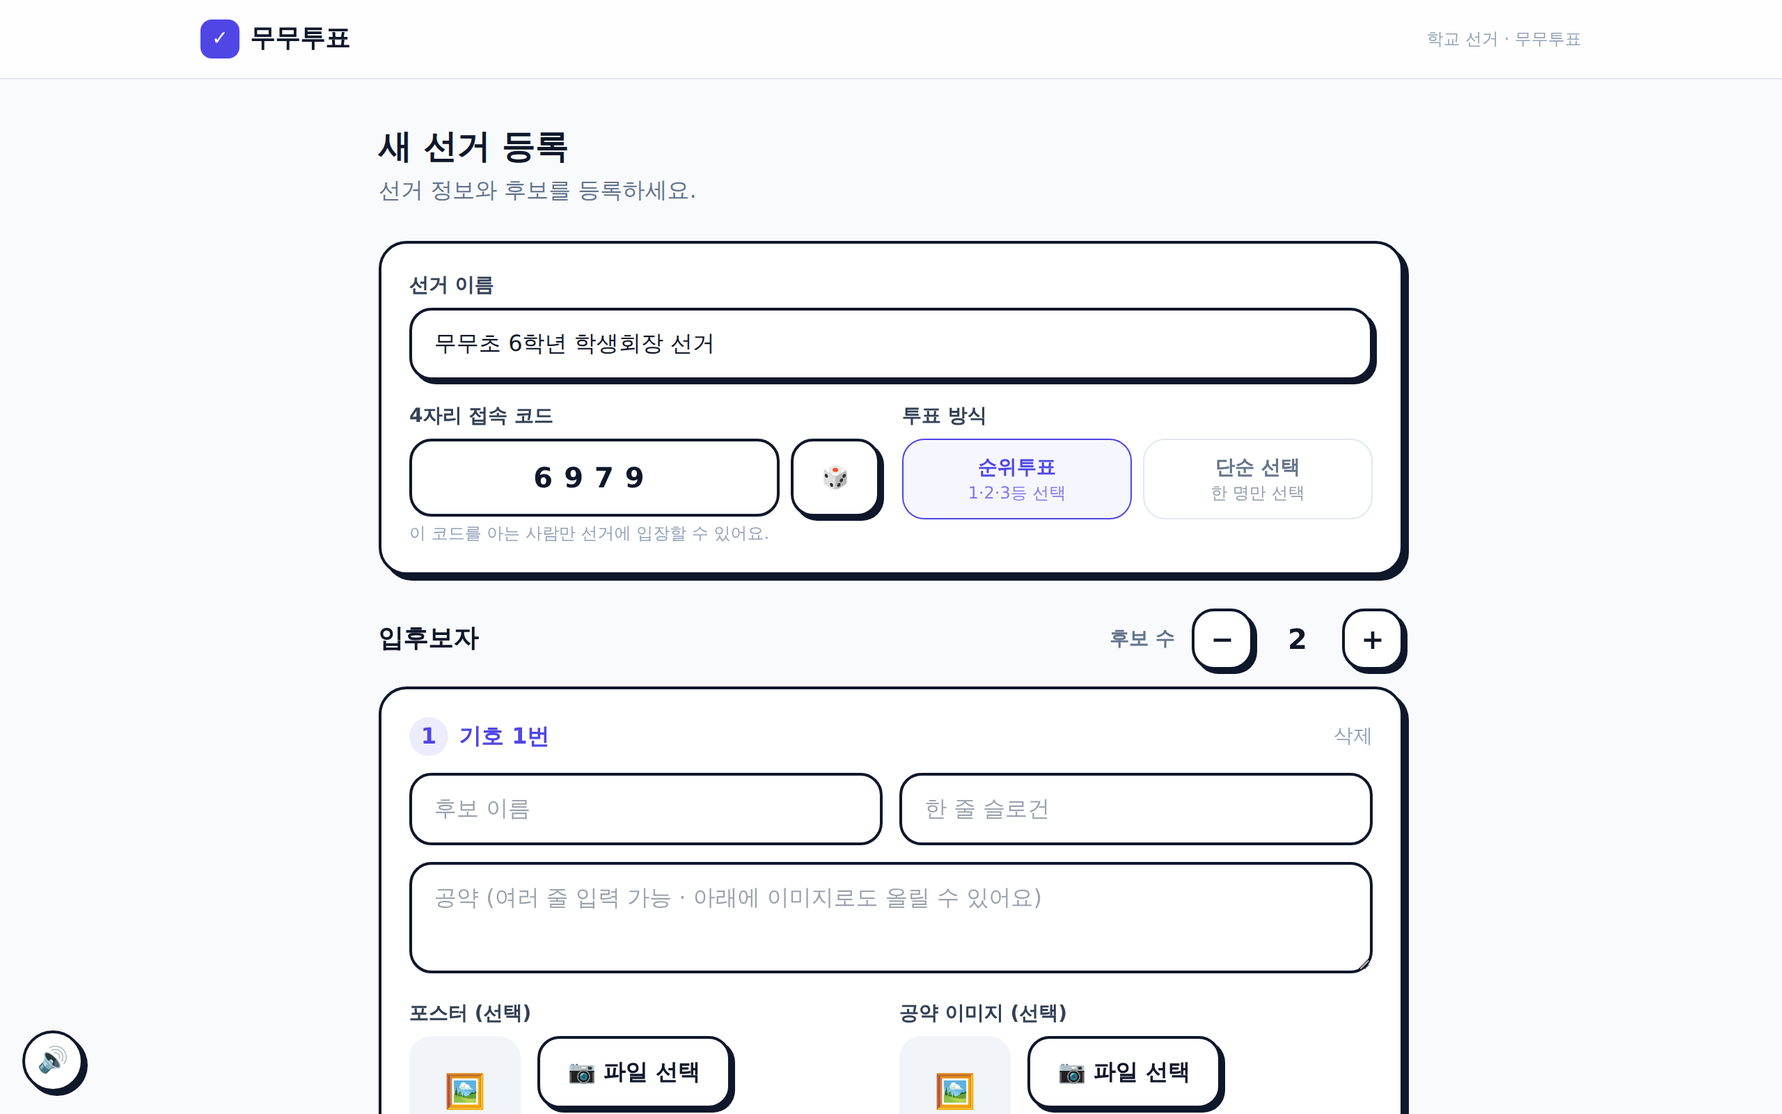
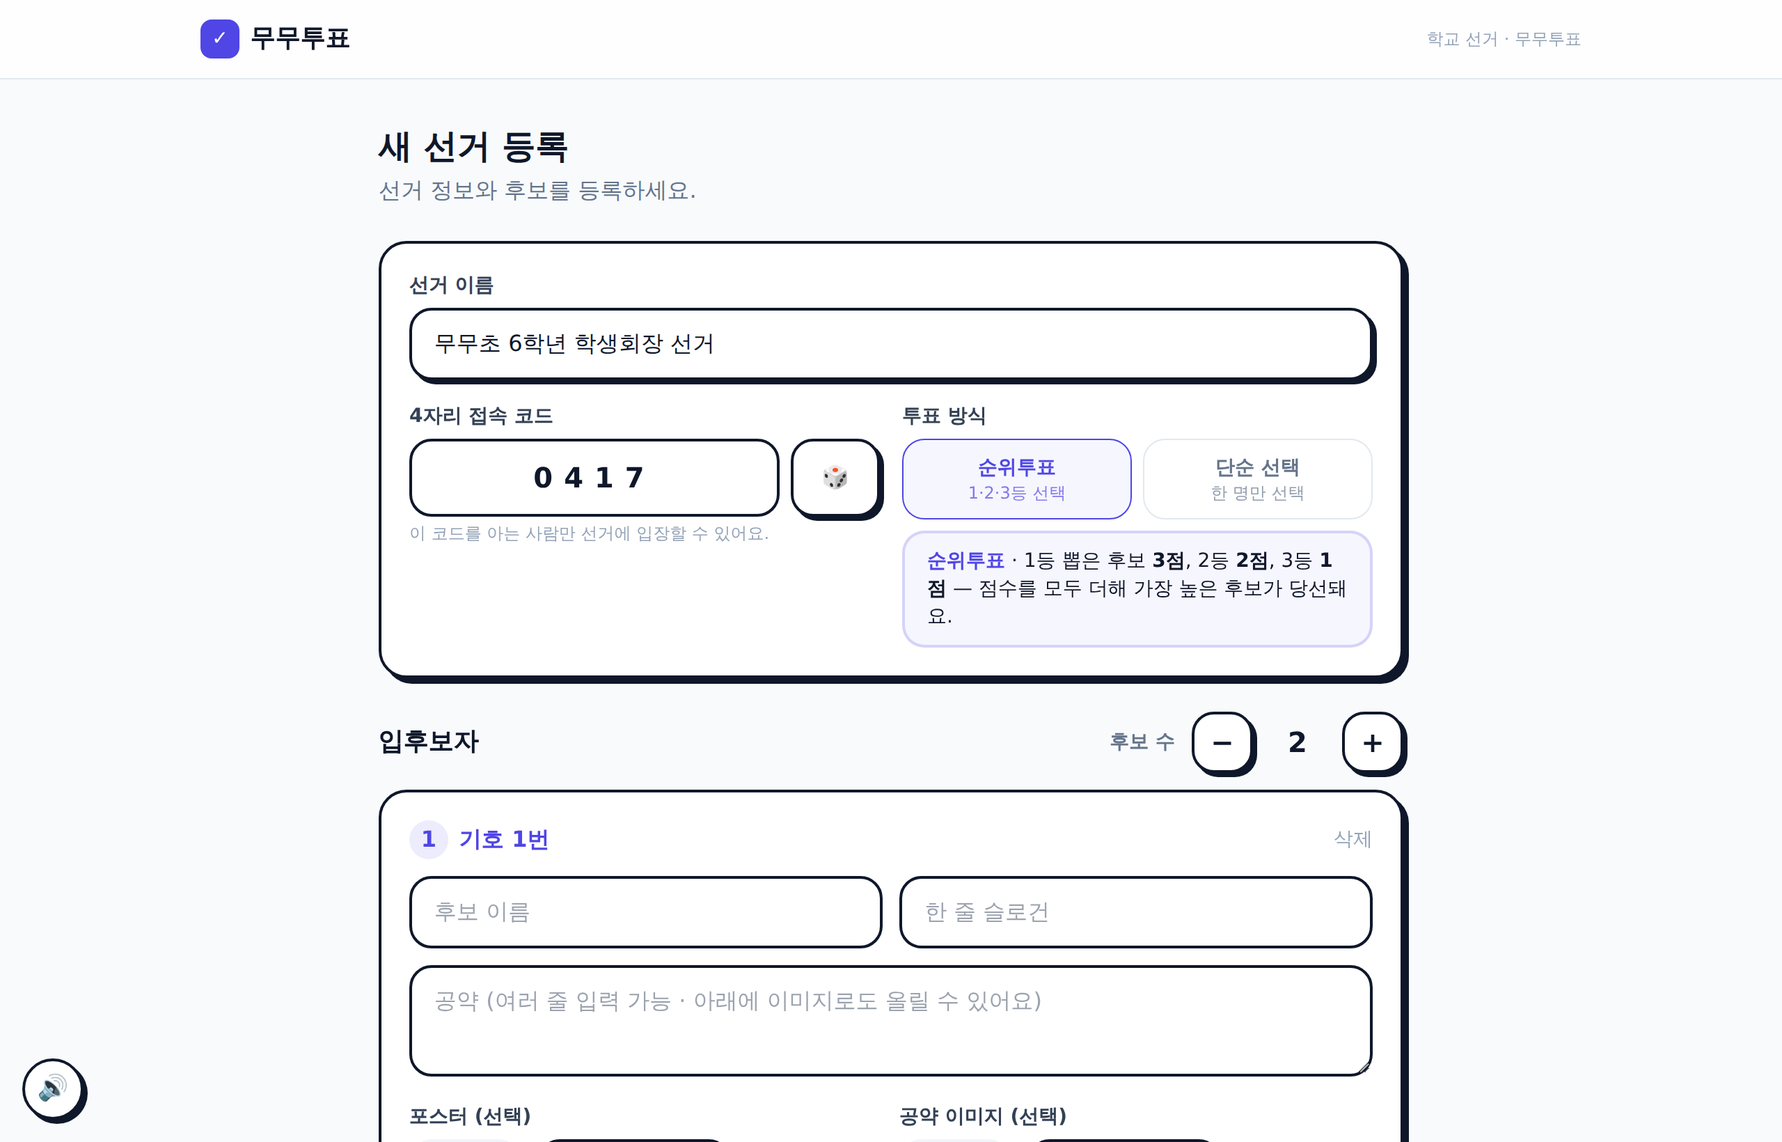
투표 방식 설명 추가 + 소개글·스크린샷 최종 정리 (#20)
* 투표 방식 설명 추가 (순위투표 점수 계산 안내)

학생이 1·2·3등을 고를 때 왜 그렇게 하는지, 어떻게 집계되는지 앱이 직접 설명.

- VoteModeGuide 컴포넌트 신설 (full: 카드형 상세 / compact: 한 줄 배너)
  순위투표 = 1등 3점·2등 2점·3등 1점, 예시와 "모두 더해 최고점이 당선" 설명
  단순 선택 = 한 명만, 최다 득표 당선
- 후보 관찰(Candidates)·개별 투표 관찰 화면에 상세 카드
- 실제 투표 화면(Voting·SelfVote)에 한 줄 배너
- 새 선거 등록에서 방식 선택 시 즉시 설명 표시

Claude-Session: https://claude.ai/code/session_01X3D4HdTXSVNGG6kUNMdW9s

* 소개글·스크린샷 최종 정리 (promo/)

- 스크린샷 11장으로 교체(2x): 스플래시·랜딩·선거등록·후보목록과방식안내·
  후보상세·개별투표·학번확인·순위투표·결과발표대기·카운트다운·결과공개
- 소개글: 투표 방식 설명, 3·2·1 발표 연출, 후보 수 스테퍼 등 최신 기능 반영
- 짧은버전: 스크린샷별 캡션 표 추가

Claude-Session: https://claude.ai/code/session_01X3D4HdTXSVNGG6kUNMdW9s

---------

Changed region(s): [[0.1875, 0.0938, 0.8125, 1.0], [0.1562, 0.0312, 0.1875, 0.0625], [0.0, 0.9375, 0.0312, 0.9688]]

diff --git a/src/components/VoteModeGuide.jsx b/src/components/VoteModeGuide.jsx
@@ -1,0 +1,79 @@
+// 투표 방식 안내 — 순위투표/단순 선택이 어떻게 계산되는지 학생·선생님에게 설명
+// variant: 'full'(카드형 상세) | 'compact'(한 줄 요약 배너)
+export default function VoteModeGuide({ voteMode, variant = 'full' }) {
+  const ranked = voteMode === 'ranked'
+
+  if (variant === 'compact') {
+    return (
+      <div className="rounded-xl bg-primary/5 border-2 border-primary/20 px-4 py-2.5 text-sm text-ink">
+        {ranked ? (
+          <>
+            <b className="text-primary">순위투표</b> · 1등 뽑은 후보 <b>3점</b>, 2등{' '}
+            <b>2점</b>, 3등 <b>1점</b> — 점수를 모두 더해 가장 높은 후보가 당선돼요.
+          </>
+        ) : (
+          <>
+            <b className="text-primary">단순 선택</b> · 후보 <b>한 명</b>만 골라요. 표를 가장 많이
+            받은 후보가 당선돼요.
+          </>
+        )}
+      </div>
+    )
+  }
+
+  return (
+    <div className="card p-5">
+      <div className="flex items-center gap-2 mb-2">
+        <span className="text-xl">🧮</span>
+        <h3 className="font-black text-lg">
+          {ranked ? '순위투표는 이렇게 계산해요' : '단순 선택은 이렇게 계산해요'}
+        </h3>
+      </div>
+
+      {ranked ? (
+        <>
+          <p className="text-slate-600 text-sm">
+            좋아하는 후보를 <b>1등 · 2등 · 3등</b> 순서대로 골라요. 등수마다 점수가 다릅니다.
+          </p>
+          <div className="grid grid-cols-3 gap-2 mt-4">
+            {[
+              ['1등', 3, 'bg-accent text-white'],
+              ['2등', 2, 'bg-primary text-white'],
+              ['3등', 1, 'bg-slate-200 text-ink'],
+            ].map(([label, pt, cls]) => (
+              <div key={label} className="rounded-xl border-2 border-ink p-3 text-center">
+                <span
+                  className={`inline-block rounded-full px-3 py-1 text-xs font-black ${cls}`}
+                >
+                  {label}
+                </span>
+                <p className="text-2xl font-black mt-2">{pt}점</p>
+              </div>
+            ))}
+          </div>
+          <div className="mt-4 rounded-xl bg-slate-50 border border-slate-200 p-3">
+            <p className="text-sm text-slate-600">
+              <b>예시</b> — 한 명이 1등에 기호1, 2등에 기호2, 3등에 기호3을 골랐다면
+              <br />
+              기호1은 <b className="text-accent">3점</b>, 기호2는{' '}
+              <b className="text-primary">2점</b>, 기호3은 <b>1점</b>을 받아요.
+            </p>
+          </div>
+          <p className="text-sm text-slate-600 mt-3">
+            반 학생 모두의 점수를 <b>전부 더해서</b>, 합계가 가장 높은 후보가 당선됩니다. 그래서
+            1등을 적게 받아도 2·3등을 골고루 받으면 순위가 올라갈 수 있어요.
+          </p>
+        </>
+      ) : (
+        <>
+          <p className="text-slate-600 text-sm">
+            후보 <b>한 명</b>만 고르는 방식이에요. 고른 후보가 <b>1표</b>를 받습니다.
+          </p>
+          <p className="text-sm text-slate-600 mt-3">
+            표를 가장 많이 받은 후보가 당선됩니다.
+          </p>
+        </>
+      )}
+    </div>
+  )
+}

diff --git a/src/pages/SelfVote.jsx b/src/pages/SelfVote.jsx
@@ -3,6 +3,7 @@ import { useParams } from 'react-router-dom'
 import { getElection, getClass, submitSelfBallot, subscribeVotedIds } from '../lib/elections'
 import Footer from '../components/Footer'
 import CandidateDetailModal from '../components/CandidateDetailModal'
+import VoteModeGuide from '../components/VoteModeGuide'
 import { playComplete, playError } from '../lib/sound'
 
 // 개별 투표 — 학생이 자기 태블릿에서 비밀 링크로 접속해 각자 투표
@@ -199,9 +200,13 @@ export default function SelfVote() {
         <div className="flex-1 max-w-4xl w-full mx-auto px-4 py-6">
           <p className="text-slate-400 font-semibold text-center">{voter.name}님</p>
           <h1 className="text-2xl font-black text-center mt-1">후보를 살펴보세요</h1>
-          <p className="text-slate-500 text-center mt-1 mb-5">
+          <p className="text-slate-500 text-center mt-1 mb-4">
             카드를 눌러 공약과 포스터를 확인한 뒤, 아래 버튼으로 투표를 시작하세요.
           </p>
+          {/* 투표 방식 설명 */}
+          <div className="mb-5">
+            <VoteModeGuide voteMode={election.voteMode} />
+          </div>
           <CandidateGrid candidates={election.candidates} onPick={(cid) => setDetail(election.candidates.find((c) => c.id === cid))} />
           <div className="sticky bottom-4 mt-8 flex flex-col items-center gap-2">
             <button className="btn-accent text-lg px-10 py-4 shadow-lg" onClick={() => setPhase('vote')}>
@@ -305,9 +310,12 @@ function VoteBox({ election, onSubmit, onCancel }) {
           <h1 className="text-2xl font-black mb-1 text-center">
             <span className="text-primary">{rankLabel[currentRank]}</span> 후보를 선택하세요
           </h1>
-          <p className="text-slate-500 mb-5 text-center">
+          <p className="text-slate-500 mb-3 text-center">
             이미 고른 후보는 제외됩니다. {chosenIds.length > 0 && `(${chosenIds.length}/3 선택)`}
           </p>
+          <div className="mb-5">
+            <VoteModeGuide voteMode="ranked" variant="compact" />
+          </div>
           <CandidateGrid
             candidates={election.candidates.filter((c) => !chosenIds.includes(c.id))}
             onPick={(cid) => setPicks((p) => ({ ...p, [currentRank]: cid }))}

diff --git a/src/pages/Voting.jsx b/src/pages/Voting.jsx
@@ -2,6 +2,7 @@ import { useEffect, useMemo, useState } from 'react'
 import { useNavigate, useParams } from 'react-router-dom'
 import { getElection, getClass, submitBallot, updateVoters } from '../lib/elections'
 import Footer from '../components/Footer'
+import VoteModeGuide from '../components/VoteModeGuide'
 import { playSuccess, playComplete } from '../lib/sound'
 
 // 투표 진행 — 투표인단이 순서대로 등장해 투표
@@ -138,9 +139,12 @@ export default function Voting() {
               <h1 className="text-2xl font-black mb-1">
                 <span className="text-primary">{rankLabel[currentRank]}</span> 후보를 선택하세요
               </h1>
-              <p className="text-slate-500 mb-5">
+              <p className="text-slate-500 mb-3">
                 이미 고른 후보는 제외됩니다. {chosenIds.length > 0 && `(${chosenIds.length}/3 선택)`}
               </p>
+              <div className="mb-5">
+                <VoteModeGuide voteMode="ranked" variant="compact" />
+              </div>
               <CandidateGrid
                 candidates={election.candidates.filter((c) => !chosenIds.includes(c.id))}
                 onPick={pickRanked}

diff --git a/src/pages/Candidates.jsx b/src/pages/Candidates.jsx
@@ -2,6 +2,7 @@ import { useEffect, useState } from 'react'
 import { useNavigate, useParams } from 'react-router-dom'
 import Page from '../components/Page'
 import CandidateDetailModal from '../components/CandidateDetailModal'
+import VoteModeGuide from '../components/VoteModeGuide'
 import { getElection, getClass } from '../lib/elections'
 
 // 입후보자 관찰 화면 — 카드 클릭 시 공약·포스터 상세 보기, 하단에 투표시작
@@ -49,6 +50,11 @@ export default function Candidates() {
       <p className="text-slate-500 mb-4">
         후보 카드를 눌러 <b>공약과 포스터</b>를 확인하세요.
       </p>
+
+      {/* 투표 방식 설명 — 투표 전에 방식을 이해하도록 */}
+      <div className="mb-5">
+        <VoteModeGuide voteMode={election.voteMode} />
+      </div>
 
       <div className="grid sm:grid-cols-2 lg:grid-cols-3 gap-4">
         {election.candidates.map((c) => (

diff --git a/src/pages/ElectionNew.jsx b/src/pages/ElectionNew.jsx
@@ -3,6 +3,7 @@ import { useNavigate } from 'react-router-dom'
 import Page from '../components/Page'
 import { createElection, randomCode, uid } from '../lib/elections'
 import { uploadCandidateImage } from '../lib/storage'
+import VoteModeGuide from '../components/VoteModeGuide'
 
 // 새 선거 등록 — 이름, 4자리 코드, 투표 방식, 후보 목록
 export default function ElectionNew() {
@@ -137,6 +138,9 @@ export default function ElectionNew() {
                   단순 선택
                   <span className="block text-xs font-normal opacity-70">한 명만 선택</span>
                 </ModeBtn>
+              </div>
+              <div className="mt-2">
+                <VoteModeGuide voteMode={voteMode} variant="compact" />
               </div>
             </div>
           </div>

diff --git a/promo/소개글.md b/promo/소개글.md
@@ -8,7 +8,7 @@
 
 ## 한 줄 소개
 
-학급·전교학생회 선거를 만들고, 후보 공약을 살펴보고, 그 자리에서 투표하고 집계까지 끝내는 웹앱입니다. 설치 없이 링크만 있으면 됩니다.
+학급·전교학생회 선거를 만들고, 후보 공약을 살펴보고, 그 자리에서 투표하고 집계까지 끝내는 웹앱입니다. 설치도 회원가입도 없이 링크만 있으면 됩니다.
 
 ---
 
@@ -30,19 +30,38 @@
 ## 이렇게 씁니다
 
 ### 1. 선거 만들기 (선생님, 3분)
-선거 이름 · 4자리 접속 코드 · 투표 방식(순위투표 / 단순 선택)을 정하고, 후보 수를 −/+로 지정한 뒤 이름·슬로건·공약을 채웁니다. **포스터와 공약은 사진 파일로 바로 업로드**할 수 있어서, 아이들이 그린 손포스터를 찍어 올리면 그대로 화면에 뜹니다.
+
+선거 이름 · 4자리 접속 코드 · 투표 방식을 정하고, **− / +** 로 후보 수를 지정한 뒤 이름·슬로건·공약을 채웁니다. **포스터와 공약은 사진 파일로 바로 업로드**할 수 있어서, 아이들이 그린 손포스터를 찍어 올리면 그대로 화면에 뜹니다.
+
+> 📷 `03-선거등록.png`
 
 ### 2. 명단 등록
+
 반 이름과 투표인단을 `학번 이름` 형식으로 한 줄씩 붙여넣습니다. (예: `6101 김민준`)
 
-### 3. 투표 — 두 가지 방식 중 선택
+### 3. 후보 살펴보기 — 방식도 함께 설명
+
+후보 카드를 누르면 **왼쪽에 포스터, 오른쪽에 공약**이 크게 뜹니다. 화면 위에는 **투표 방식이 어떻게 계산되는지** 설명이 붙어 있어서, 아이들이 "왜 3등까지 고르지?"를 이해한 상태로 투표합니다.
+
+> 📷 `04-후보목록과방식안내.png`, `05-후보상세.png`
+
+**순위투표**는 1등 3점 · 2등 2점 · 3등 1점으로 환산해 모두 더합니다. 1등을 적게 받아도 2·3등을 골고루 받으면 순위가 올라갈 수 있어, "한 명만 찍고 끝"이 아니라 **여러 후보의 공약을 두루 보게 되는** 효과가 있습니다. 선거 교육용으로 쓰기 좋습니다. (단순 다수결이 필요하면 **단순 선택** 모드를 쓰면 됩니다.)
+
+### 4. 투표 — 두 가지 방식 중 선택
 
 **🖥 키오스크 모드** — 태블릿 한 대를 돌려가며 씁니다. 명단 순서대로 이름이 뜨고, 한 명이 끝나면 자동으로 다음 사람 차례로 넘어갑니다. 기기가 한 대뿐인 교실용.
 
 **📱 개별 투표 모드** — 선생님이 **비밀 링크**를 공유하면 학생들이 각자 자기 태블릿으로 들어와 동시에 투표합니다. 명단에서 자기 이름을 누르고 **학번을 입력해야** 진행되므로, 실수로 남의 이름을 눌러 투표가 날아가는 사고를 막습니다. 이미 투표한 이름은 실시간으로 잠깁니다.
 
-### 4. 결과
-반별 집계가 자동으로 나오고, **체크박스로 원하는 반만 골라 합산**할 수 있습니다. 순위투표는 1등 3점·2등 2점·3등 1점으로 환산됩니다.
+> 📷 `06-개별투표_이름선택.png`, `07-학번확인.png`, `08-순위투표_1등고르기.png`
+
+### 5. 결과 발표 — 3 · 2 · 1
+
+개표가 끝나면 결과를 바로 띄우지 않습니다. **[🥁 결과 발표하기]** 를 누르면 전체 화면으로 **3 → 2 → 1 → 두구두구** 카운트다운이 흐르고, 팡파레와 함께 색종이가 흩날리며 결과가 공개됩니다. 교실이 술렁이는 그 순간을 위한 연출입니다. (급할 땐 "바로 보기"로 건너뛸 수 있어요.)
+
+반별 집계가 자동으로 나오고, **체크박스로 원하는 반만 골라 합산**할 수 있습니다.
+
+> 📷 `09-결과발표대기.png`, `10-카운트다운.png`, `11-결과공개.png`
 
 ---
 
@@ -53,33 +72,24 @@
 | **설치 없음** | 링크만 열면 끝. 앱스토어·회원가입·로그인 없음 |
 | **1인 1표 보장** | 투표를 학생별 문서로 저장해, 25명이 동시에 눌러도 표가 유실되지 않음 |
 | **실수 방지** | 학번 확인 + 중복 투표 자동 잠금 |
+| **방식 설명 내장** | 순위투표 점수 계산을 학생 눈높이로 화면에 안내 |
 | **반별 → 전교 합산** | 반마다 따로 투표하고 원하는 반만 골라 합산 |
 | **공약 중심 화면** | 후보를 누르면 왼쪽 포스터·오른쪽 공약 2단으로 크게 |
-| **넓은 화면 우선** | 태블릿·PC에 최적화, 휴대폰에서도 안 깨짐 |
-| **효과음 & 음소거** | 투표 완료 축하음, 교실용 음소거 토글 |
+| **발표 연출** | 3·2·1 카운트다운 + 드럼롤 + 색종이 |
+| **효과음 & 음소거** | 클릭음·완료음·팡파레, 교실용 음소거 토글 |
 | **슈퍼 관리자** | 선거 목록·접속 코드·진행 현황 확인, 선거/반 삭제 |
+| **넓은 화면 우선** | 태블릿·PC에 최적화, 휴대폰에서도 안 깨짐 |
 
 ---
 
 ## 만든 방식
 
 - React + Vite / Tailwind CSS
-- Firebase Firestore (실시간 공유·집계)
+- Firebase Firestore (실시간 공유·집계) + Storage (포스터·공약 이미지)
 - Vercel 배포
 - 기획부터 구현까지 **Claude Code로 바이브코딩**
 
-실제 공개수업에서 쓰려고 만들었고, 수업 준비하면서 필요한 기능을 하나씩 붙였습니다. 처음엔 태블릿 한 대짜리 키오스크 앱이었는데, "그날은 애들이 각자 기기로 하면 좋겠다"는 요구가 생겨 개별 투표 모드가 추가됐고, "실수로 눌리면 어쩌지"에서 학번 확인이 나왔습니다.
-
----
-
-## 화면
-
-1. **랜딩** — 링크 열면 나오는 첫 화면
-2. **선거 등록** — 후보 수 −/+ 스테퍼, 포스터·공약 이미지 업로드
-3. **후보 목록** — 카드로 한눈에, 개별 투표 링크 복사
-4. **후보 상세** — 좌 포스터 / 우 공약 2단
-5. **개별 투표** — 내 이름 선택 → 학번 확인
-6. **결과** — 반별 집계 + 선택 합산
+실제 공개수업에서 쓰려고 만들었고, 수업을 준비하면서 필요한 기능을 하나씩 붙였습니다. 처음엔 태블릿 한 대짜리 키오스크 앱이었는데 "그날은 애들이 각자 기기로 하면 좋겠다"에서 개별 투표 모드가 나왔고, "실수로 눌리면 어쩌지"에서 학번 확인이, "발표할 때 긴장감이 있으면 좋겠다"에서 카운트다운이 나왔습니다. 교실에서 쓰다 보면 필요한 게 계속 보이더군요.
 
 ---
 
@@ -92,5 +102,7 @@
 피드백 환영합니다. 교실에서 써보시고 불편한 점 알려주시면 반영하겠습니다.
 
 ---
+
+*스크린샷은 데모 데이터로 촬영했습니다.*
 
 *© 2026 무궁무진클래스 · 바이브용샘 · [mumuclass.kr](https://mumuclass.kr)*

diff --git a/promo/소개글-짧은버전.md b/promo/소개글-짧은버전.md
@@ -1,6 +1,6 @@
 # 짧은 버전 모음 (플랫폼별)
 
-## 한 줄 (트위터/스레드 헤드라인)
+## 한 줄 (헤드라인)
 초등 교실 선거를 링크 하나로. 태블릿 한 대로도, 학생들 각자 기기로도 투표하고 반별로 합산까지 — 무무투표
 
 ---
@@ -10,14 +10,14 @@
 
 종이 투표용지 오리고 칠판에 正자 그리던 학급 선거를, 링크 하나로 끝냅니다.
 태블릿 한 대를 돌려 쓰는 키오스크 모드와, 학생들이 각자 기기로 동시에 참여하는 개별 투표 모드를 모두 지원합니다.
-반별로 집계하고 원하는 반만 골라 합산할 수 있습니다.
+결과는 3·2·1 카운트다운과 함께 발표하고, 반별로 집계해 원하는 반만 골라 합산합니다.
 
 🔗 https://mumuvote.vercel.app
 
 ---
 
 ## 200자 소개
-초등학교 학급·전교 선거용 웹앱입니다. 선생님이 3분 만에 선거를 열고, 아이들은 포스터와 공약을 큰 화면으로 보며 투표합니다. 태블릿 한 대를 돌려 쓰거나, 비밀 링크로 각자 기기에서 동시에 투표할 수 있어요. 학번 확인으로 실수 투표를 막고, 반별 결과를 원하는 대로 합산합니다. 설치·회원가입 없이 링크만 열면 됩니다.
+초등학교 학급·전교 선거용 웹앱입니다. 선생님이 3분 만에 선거를 열고, 아이들은 포스터와 공약을 큰 화면으로 보며 투표합니다. 태블릿 한 대를 돌려 쓰거나, 비밀 링크로 각자 기기에서 동시에 투표할 수 있어요. 학번 확인으로 실수 투표를 막고, 3·2·1 카운트다운으로 결과를 발표합니다. 설치·회원가입 없이 링크만 열면 됩니다.
 
 ---
 
@@ -33,6 +33,8 @@
 ✅ 아이들이 그린 포스터 사진으로 업로드
 ✅ 태블릿 한 대 돌려쓰기 OR 각자 기기로 동시 투표
 ✅ 학번 입력해야 진행 → 실수 투표 방지
+✅ 순위투표 점수 계산을 아이들 눈높이로 설명
+✅ 결과는 3·2·1 카운트다운 + 색종이로 발표 🎉
 ✅ 반별 집계 + 원하는 반만 골라 합산
 
 설치도, 회원가입도 없습니다. 링크만 열면 끝.
@@ -50,3 +52,21 @@
 이번 공개수업에서 학급 선거를 진행하려다, 매번 반복되는 준비 과정이 너무 아깝다는 생각이 들었습니다. 투표용지를 만들고 개표하는 데 두 시간이 드는데, 정작 아이들이 후보 공약을 읽고 고민하는 시간은 십 분도 안 됐거든요.
 
 그래서 "선생님은 3분 만에 선거를 열고, 아이들은 공약을 충분히 보고 투표하는" 앱을 만들었습니다.
+
+---
+
+## 스크린샷 캡션 (게시할 때 사진마다 붙이기)
+
+| 파일 | 캡션 |
+|---|---|
+| `01-스플래시.png` | 앱을 열면 나오는 인트로 |
+| `02-랜딩.png` | 링크를 받으면 보이는 첫 화면 |
+| `03-선거등록.png` | 선거 정보 · 후보 수 −/+ · 포스터와 공약 이미지 업로드 |
+| `04-후보목록과방식안내.png` | 투표 전에 "순위투표는 이렇게 계산해요" 설명이 먼저 |
+| `05-후보상세.png` | 왼쪽 포스터, 오른쪽 공약 — 스크롤 없이 한눈에 |
+| `06-개별투표_이름선택.png` | 비밀 링크로 들어와 내 이름 선택 (투표한 사람은 잠김) |
+| `07-학번확인.png` | 학번을 입력해야 진행 — 실수 클릭 방지 |
+| `08-순위투표_1등고르기.png` | 1등부터 순서대로 선택, 방식 안내가 계속 따라다님 |
+| `09-결과발표대기.png` | 개표 완료 — 발표 버튼을 누르기 전까지 결과는 숨김 |
+| `10-카운트다운.png` | 3 · 2 · 1 … 두구두구 |
+| `11-결과공개.png` | 색종이와 함께 공개, 반별 집계 + 합산 |
